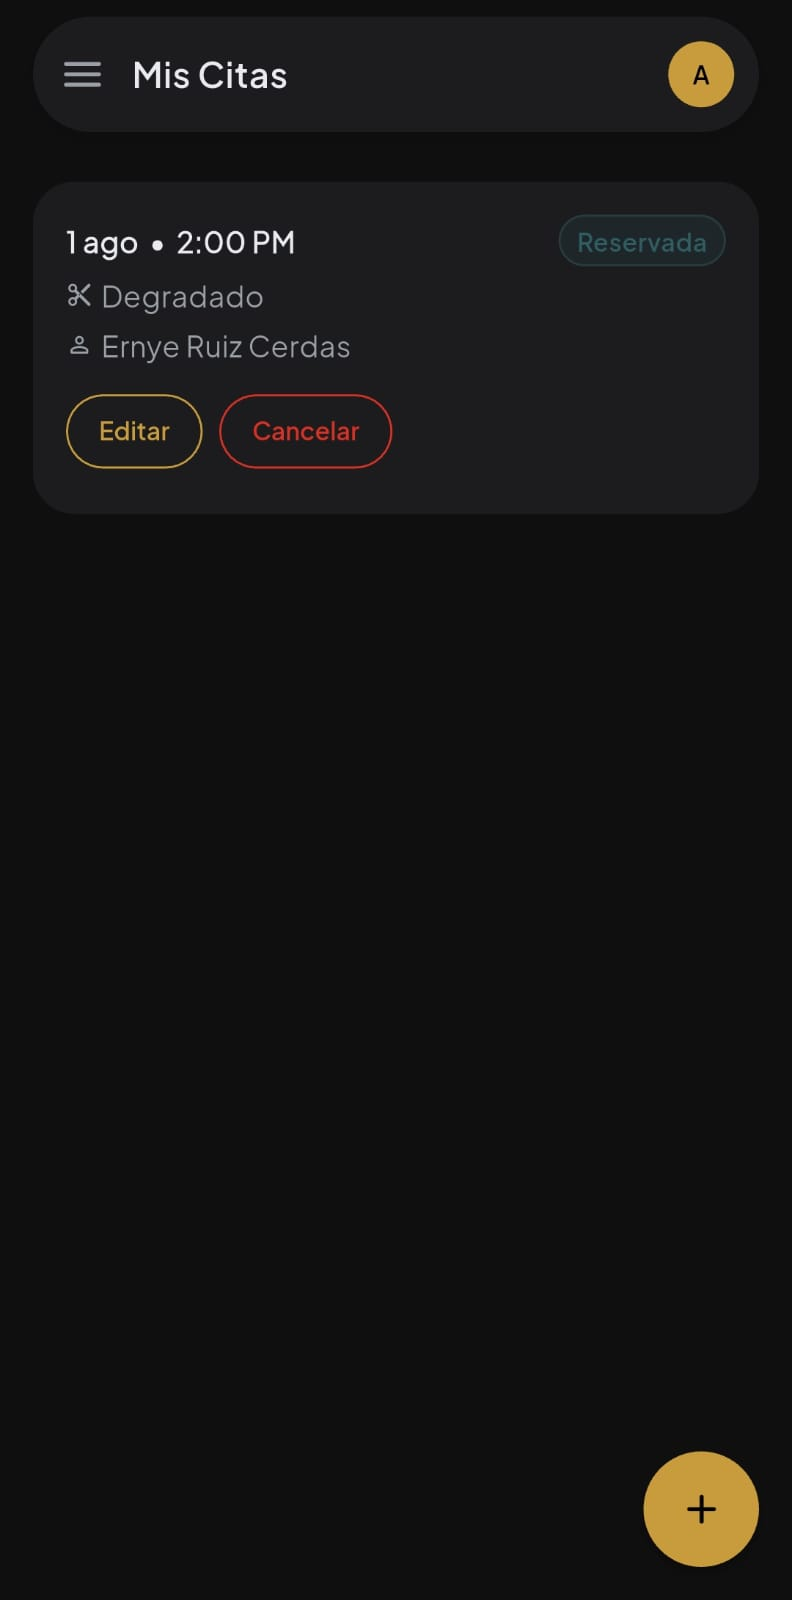
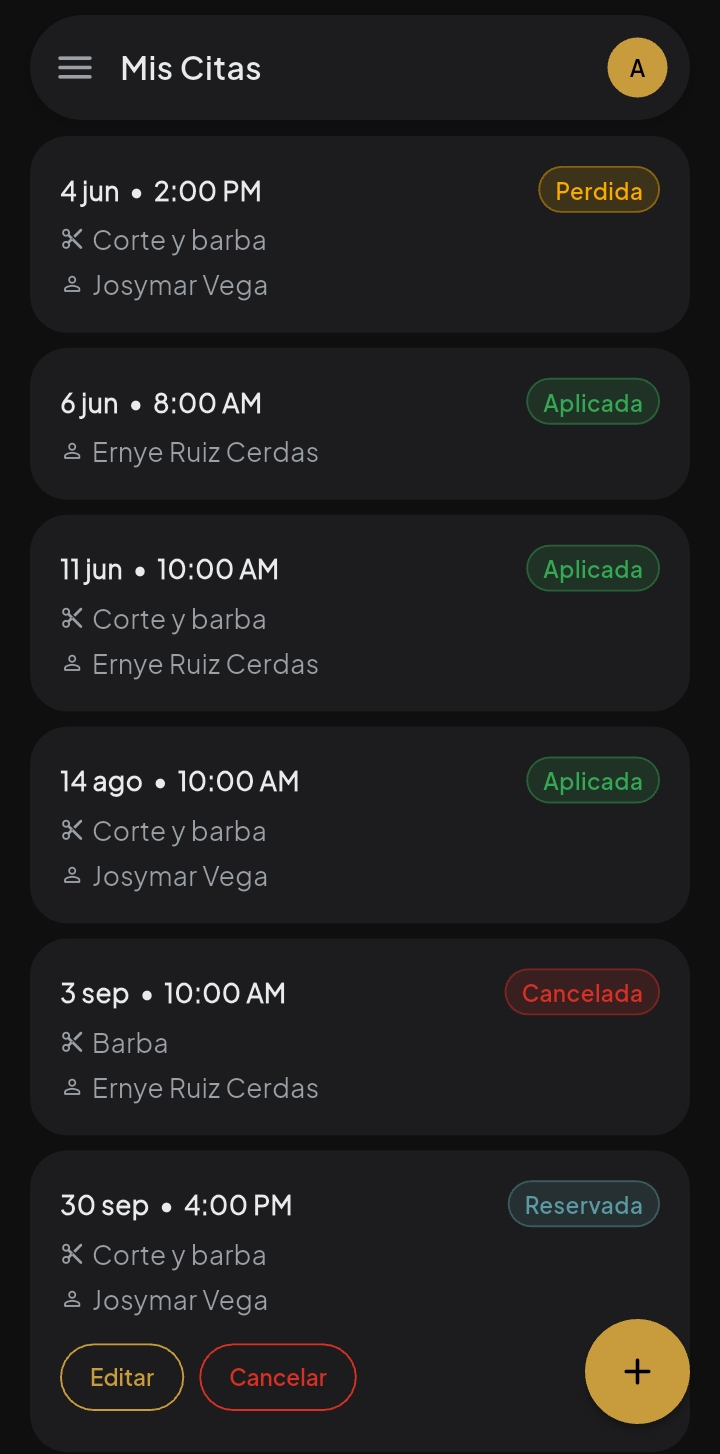
feat: amplía las capturas y la descripción de barber-admin

diff --git a/src/content/proyectos/barber-admin.md b/src/content/proyectos/barber-admin.md
@@ -1,56 +1,50 @@
 ---
 titulo: "BarberAdmin"
-resumen: "App Android de gestión para barberías: una sola app que sirve a dueños, barberos y clientes, cada uno con su propia experiencia."
+resumen: "App Android de gestión para barberías con multiples experiencias segun el rol: dueños, barberos y clientes"
 tipo: "movil"
-portada: "../../assets/proyectos/barber-admin/portada.jpeg"
+portada: "../../assets/proyectos/barber-admin/dashboard-barbero.jpeg"
 galeria:
-  - src: "../../assets/proyectos/barber-admin/login.jpeg"
-    alt: "Login"
-  - src: "../../assets/proyectos/barber-admin/registro-usuario.jpeg"
-    alt: "Registro de usuario"
-  - src: "../../assets/proyectos/barber-admin/crear-cuenta-varios-roles.jpeg"
-    alt: "Crear cuenta (varios roles)"
-  - src: "../../assets/proyectos/barber-admin/menu.jpeg"
-    alt: "Menú"
+  - src: "../../assets/proyectos/barber-admin/dashboard-barbero.jpeg"
+    alt: "Dashboard - Barbero y Admin"
   - src: "../../assets/proyectos/barber-admin/dashboard-cliente.jpeg"
     alt: "Dashboard — Cliente"
-  - src: "../../assets/proyectos/barber-admin/catalogo-productos-cliente.jpeg"
-    alt: "Catálogo de productos — Cliente"
-  - src: "../../assets/proyectos/barber-admin/detalle-producto-cliente.jpeg"
-    alt: "Detalle de producto — Cliente"
-  - src: "../../assets/proyectos/barber-admin/reservar-cita-cliente.jpeg"
-    alt: "Reservar cita — Cliente"
-  - src: "../../assets/proyectos/barber-admin/mis-citas-cliente.jpeg"
-    alt: "Mis citas — Cliente"
-  - src: "../../assets/proyectos/barber-admin/nueva-cita-barbero.jpeg"
-    alt: "Nueva cita — Barbero"
-  - src: "../../assets/proyectos/barber-admin/resumen-filtrado-barbero.jpeg"
-    alt: "Resumen filtrado — Barbero"
-  - src: "../../assets/proyectos/barber-admin/registro-productos-venta-barbero.jpeg"
-    alt: "Registro de productos para venta — Barbero"
+  - src: "../../assets/proyectos/barber-admin/crear-cuenta-varios-roles.jpeg"
+    alt: "Crear cuenta (varios roles)"
   - src: "../../assets/proyectos/barber-admin/crear-barberias-admin.jpeg"
     alt: "Crear barberías — Admin"
   - src: "../../assets/proyectos/barber-admin/gestionar-barberia-admin.jpeg"
     alt: "Gestionar barbería — Admin"
   - src: "../../assets/proyectos/barber-admin/administracion-barberos-admin.jpeg"
-    alt: "Administración de barberos — Admin"
-  - src: "../../assets/proyectos/barber-admin/aprobacion-rechazo-barberos-admin.jpeg"
-    alt: "Aprobación/rechazo de barberos — Admin"
+    alt: "Gestionar barberos — Admin"
+  - src: "../../assets/proyectos/barber-admin/nueva-cita-barbero.jpeg"
+    alt: "Nueva cita — Barbero"
+  - src: "../../assets/proyectos/barber-admin/resumen-filtrado-barbero.jpeg"
+    alt: "Resumen citas — Barbero"
+  - src: "../../assets/proyectos/barber-admin/reservar-cita-cliente.jpeg"
+    alt: "Reservar cita — Cliente"
+  - src: "../../assets/proyectos/barber-admin/mis-citas-cliente.jpeg"
+    alt: "Gestionar citas — Cliente"
+  - src: "../../assets/proyectos/barber-admin/menu.jpeg"
+    alt: "Menú dinámico por rol"
   - src: "../../assets/proyectos/barber-admin/horario-barberia-barbero-admin.jpeg"
-    alt: "Horario de barbería/barbero — Admin"
+    alt: "Horario de barbería y barbero"
+  - src: "../../assets/proyectos/barber-admin/productos-barbero.jpeg"
+    alt: "Gestionar productos — Admin"
+  - src: "../../assets/proyectos/barber-admin/registro-productos-venta-barbero.jpeg"
+    alt: "Registro de productos para venta — Admin"
   - src: "../../assets/proyectos/barber-admin/mantenimiento-servicios-admin.jpeg"
-    alt: "Mantenimiento de servicios — Admin"
-  - src: "../../assets/proyectos/barber-admin/registrar-compra-productos-admin.jpeg"
-    alt: "Registrar compra de productos — Admin"
+    alt: "Gestionar servicios — Admin"
   - src: "../../assets/proyectos/barber-admin/ventas-productos-admin.jpeg"
-    alt: "Ventas de productos — Admin"
+    alt: "Gestionar ventas — Barbero"
+  - src: "../../assets/proyectos/barber-admin/catalogo-productos-cliente.jpeg"
+    alt: "Catálogo de productos — Cliente"
+  - src: "../../assets/proyectos/barber-admin/detalle-producto-cliente.jpeg"
+    alt: "Detalle de producto — Cliente"
   - src: "../../assets/proyectos/barber-admin/auditoria-admin.jpeg"
     alt: "Auditoría — Admin"
   - src: "../../assets/proyectos/barber-admin/filtros.jpeg"
-    alt: "Filtros"
-  - src: "../../assets/proyectos/barber-admin/perfil.jpeg"
-    alt: "Perfil"
-stack: ["Flutter", "Dart", "BLoC", "Clean Architecture", "Android"]
+    alt: "Filtrado en listas"
+stack: ["Flutter", "BLoC", "Clean Architecture", ".NET", "SQL"]
 rol: "Mobile"
 fecha: 2026-07-01
 destacado: true
